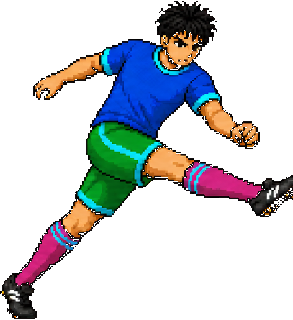
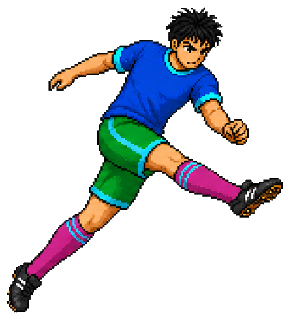
fix(cutscene): シュート画像の透過縁と余白を修正

Changed region(s): [[0.0, 0.0, 1.0, 1.0]]

diff --git a/tools/cinematic-shot-scene-test.js b/tools/cinematic-shot-scene-test.js
@@ -4,6 +4,7 @@ const assert = require('assert');
 const crypto = require('crypto');
 const fs = require('fs');
 const path = require('path');
+const zlib = require('zlib');
 
 const ROOT = path.resolve(__dirname, '..');
 const cutscene = fs.readFileSync(path.join(ROOT, 'js/cutscene.js'), 'utf8');
@@ -19,6 +20,66 @@ function sha256(rel) {
   return crypto.createHash('sha256').update(fs.readFileSync(path.join(ROOT, rel))).digest('hex');
 }
 
+function decodeRgbaPng(png) {
+  const width = png.readUInt32BE(16), height = png.readUInt32BE(20);
+  assert.strictEqual(png[24], 8, 'PNG must use 8-bit channels');
+  assert.strictEqual(png[25], 6, 'PNG must be RGBA');
+  let off = 8, idat = [];
+  while (off < png.length) {
+    const len = png.readUInt32BE(off), type = png.subarray(off + 4, off + 8).toString('ascii');
+    if (type === 'IDAT') idat.push(png.subarray(off + 8, off + 8 + len));
+    off += len + 12;
+    if (type === 'IEND') break;
+  }
+  const raw = zlib.inflateSync(Buffer.concat(idat)), stride = width * 4;
+  const out = Buffer.alloc(width * height * 4);
+  function paeth(a, b, c) {
+    const p = a + b - c, pa = Math.abs(p - a), pb = Math.abs(p - b), pc = Math.abs(p - c);
+    return pa <= pb && pa <= pc ? a : pb <= pc ? b : c;
+  }
+  let src = 0;
+  for (let y = 0; y < height; y++) {
+    const filter = raw[src++], row = y * stride, prev = row - stride;
+    for (let x = 0; x < stride; x++) {
+      const v = raw[src++], left = x >= 4 ? out[row + x - 4] : 0;
+      const up = y ? out[prev + x] : 0, ul = y && x >= 4 ? out[prev + x - 4] : 0;
+      out[row + x] = (v + (filter === 1 ? left : filter === 2 ? up : filter === 3 ? ((left + up) >> 1) : filter === 4 ? paeth(left, up, ul) : 0)) & 255;
+    }
+  }
+  return { width, height, data: out };
+}
+
+function assertCleanSprite(rel, png) {
+  const { width, height, data } = decodeRgbaPng(png);
+  const opaque = new Uint8Array(width * height);
+  let count = 0;
+  for (let i = 0; i < opaque.length; i++) {
+    if (data[i * 4 + 3] > 32) { opaque[i] = 1; count++; }
+  }
+  assert(count > width * height * 0.12, `${rel} has too little visible subject`);
+  for (let x = 0; x < width; x++) {
+    assert(!opaque[x] && !opaque[(height - 1) * width + x], `${rel} touches top/bottom edge`);
+  }
+  for (let y = 0; y < height; y++) {
+    assert(!opaque[y * width] && !opaque[y * width + width - 1], `${rel} touches left/right edge`);
+  }
+  const seen = new Uint8Array(opaque.length), queue = new Int32Array(opaque.length);
+  const components = [];
+  for (let start = 0; start < opaque.length; start++) {
+    if (!opaque[start] || seen[start]) continue;
+    let size = 0;
+    let head = 0, tail = 0; queue[tail++] = start; seen[start] = 1;
+    while (head < tail) {
+      const i = queue[head++], x = i % width; size++;
+      const next = [x ? i - 1 : -1, x + 1 < width ? i + 1 : -1, i >= width ? i - width : -1, i + width < opaque.length ? i + width : -1];
+      next.forEach(n => { if (n >= 0 && opaque[n] && !seen[n]) { seen[n] = 1; queue[tail++] = n; } });
+    }
+    components.push(size);
+  }
+  components.sort((a, b) => b - a);
+  assert((components[1] || 0) < 40, `${rel} contains a detached opaque fragment (${components[1]} px)`);
+}
+
 Object.entries(protectedAssets).forEach(([rel, expected]) => {
   assert.strictEqual(sha256(rel), expected, `protected shot asset changed: ${rel}`);
 });
@@ -27,13 +88,13 @@ const newFrames = [1, 2, 3, 4].map(n => `img/cutscenes/manga_shot_cinematic/fram
 newFrames.forEach(rel => {
   const png = fs.readFileSync(path.join(ROOT, rel));
   assert.strictEqual(png.subarray(1, 4).toString('ascii'), 'PNG', `${rel} is not PNG`);
-  assert.strictEqual(png[25], 6, `${rel} must be RGBA PNG`); // IHDR color type
   assert(png.length > 20000, `${rel} is unexpectedly small`);
+  assertCleanSprite(rel, png);
 });
 
 assert(cutscene.includes('var _CINEMATIC_SHOT_FRAMES = ['), 'new shot sequence is not registered');
 newFrames.forEach(rel => assert(cutscene.includes(rel + '?v=1'), `missing runtime path: ${rel}`));
-assert(/function _renderShotScene\(sc, entry\) \{\s*return \(_csShotVarHash\(sc\) & 1\) \? _renderCinematicShotScene\(sc\) : _renderAdoptedShotScene\(sc\);\s*\}/m.test(cutscene), 'shot variants must use deterministic rotation and preserve the adopted sequence');
+assert(/function _renderShotScene\(sc, entry\) \{\s*var canRecolor = typeof MangaRecolor !== 'undefined' && MangaRecolor\.render;\s*return \(canRecolor && \(_csShotVarHash\(sc\) & 1\)\) \? _renderCinematicShotScene\(sc\) : _renderAdoptedShotScene\(sc\);\s*\}/m.test(cutscene), 'shot variants must use deterministic rotation, require recoloring, and preserve the adopted fallback');
 assert(cutscene.includes("MangaRecolor.render('cinematic-shot-' + idx, img, cols)"), 'new shot must follow runtime kit recoloring');
 
 console.log('cinematic shot: protected original + 4 RGBA frames + deterministic rotation PASS');

diff --git a/js/cutscene.js b/js/cutscene.js
@@ -2269,7 +2269,8 @@ function _renderCinematicShotScene(sc) {
 //   entry は既存呼び出し互換のため受け取る。
 // ============================================================
 function _renderShotScene(sc, entry) {
-  return (_csShotVarHash(sc) & 1) ? _renderCinematicShotScene(sc) : _renderAdoptedShotScene(sc);
+  var canRecolor = typeof MangaRecolor !== 'undefined' && MangaRecolor.render;
+  return (canRecolor && (_csShotVarHash(sc) & 1)) ? _renderCinematicShotScene(sc) : _renderAdoptedShotScene(sc);
 }
 
 // 旧シュート演出（演出ラボでの比較確認専用・本編からは呼ばない）。
